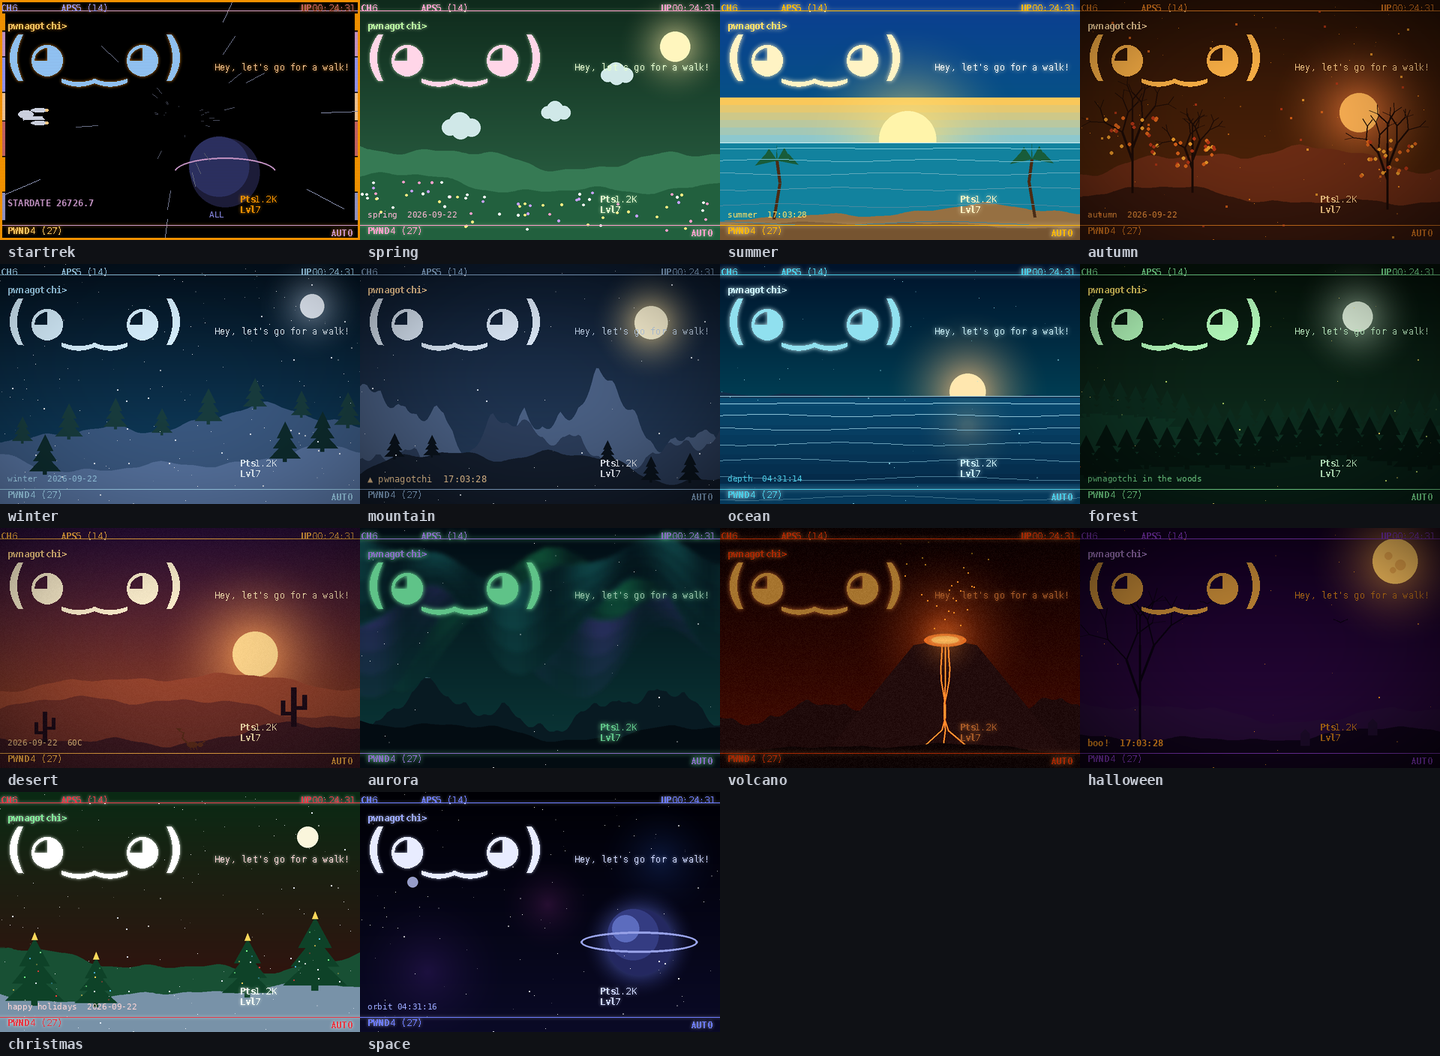
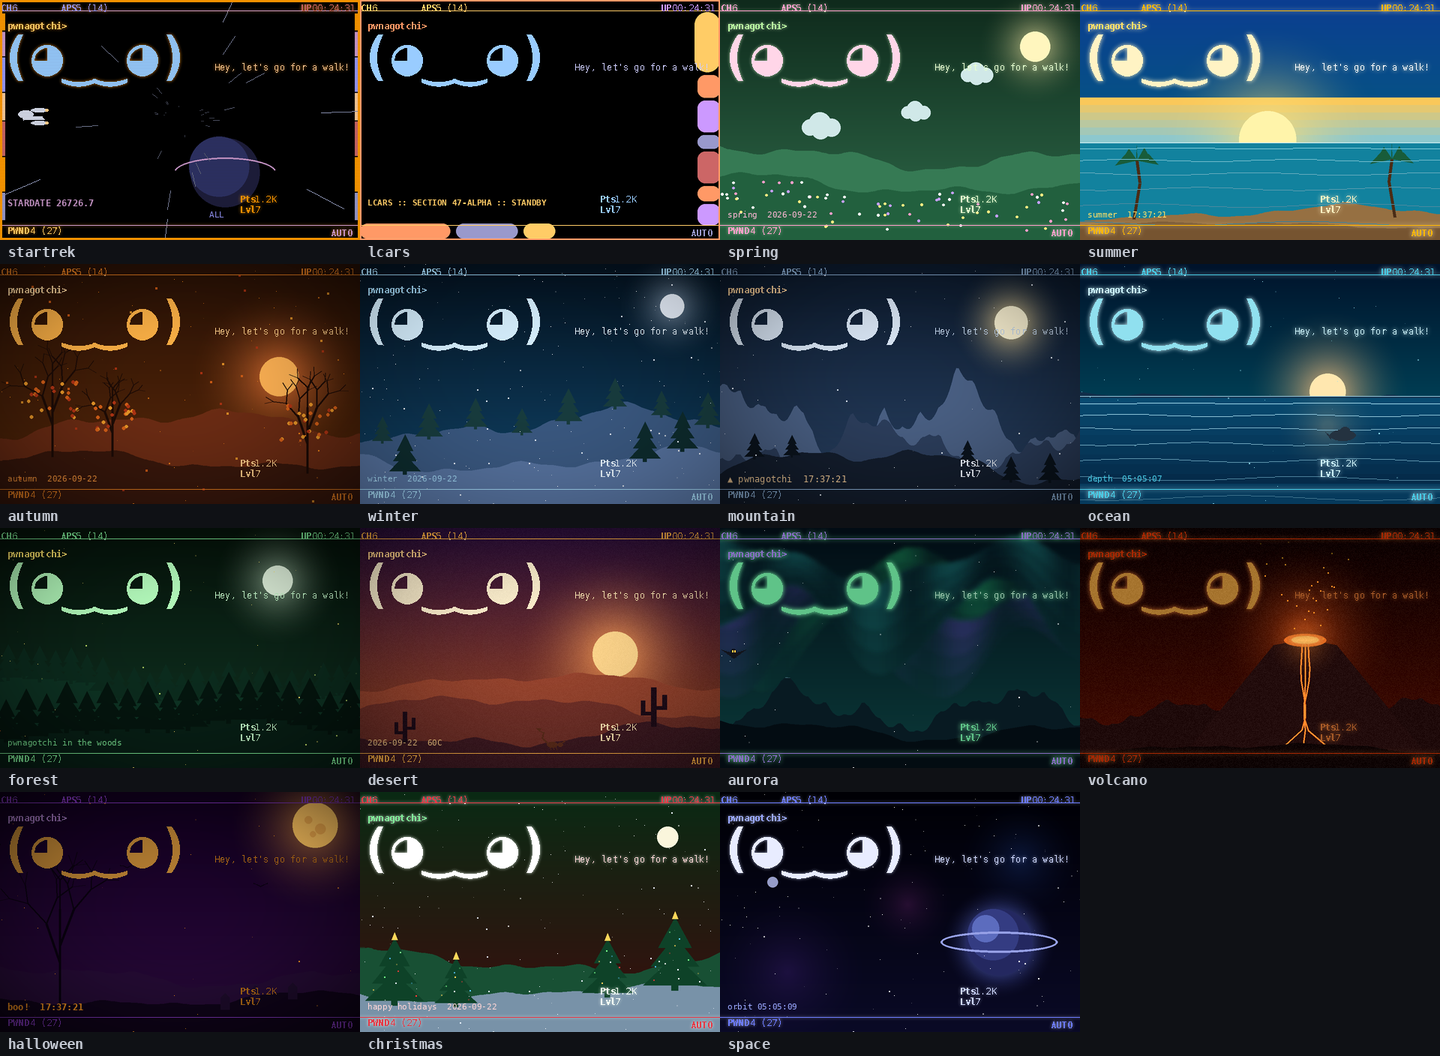
Two more sprites, and a new LCARS theme (2.13.0)
Sprites: a whale surfaces to blow a spout in ocean, off to one side
and much rarer than the dolphin -- a rare surprise, not a second
fixture. An owl glides across aurora's night sky every so often, the
same occasional-flyby idea already used for the startrek ship (and
routed through the same clear band of sky, learned from that earlier
bug).

New theme: lcars, a ship's-computer instrument panel built from
stacked rounded LCARS blocks (orange, gold, violet on black). A
genuinely different companion to startrek's viewscreen-and-console
look rather than a reskin of it -- no stars, no planet, this is the
inside of the ship. Verified against a real framebuffer capture that
foreground text stays fully legible over the panel (this plugin
composites scene art only into the non-ink background, so it can
never cover real UI text).

tests/test_sprites.py: coverage for both new sprites (visibility
frequency, clearing the face/text band). test_scenes.py and
test_repo.py pick up the new theme/scene automatically.

diff --git a/theme_manager.py b/theme_manager.py
@@ -82,7 +82,7 @@ KEY_RE = re.compile(r"^[A-Za-z0-9_.\-]{1,40}$")
 EFFECTS = {"scanlines", "vignette", "glow", "noise", "pulse", "rainbow",
            "glitch", "rain", "stars", "border", "scene"}
 SCENE_KINDS = ("mountains", "glacier", "ocean", "forest", "desert", "aurora", "volcano", "winter", "spring", "summer", "autumn",
-               "halloween", "christmas", "space", "startrek", "city", "vaporwave", "bloodmoon", "pixel")
+               "halloween", "christmas", "space", "startrek", "city", "vaporwave", "bloodmoon", "pixel", "lcars")
 ANIMATED = {"pulse", "rainbow", "glitch", "rain", "stars", "noise"}
 LIVE_TOKENS = ("{time}", "{cpu}", "{temp}", "{mem}", "{uptime}", "{ip}", "{gps}", "{lat}", "{lon}", "{sats}",
                "{handshakes}", "{cracked}", "{session}", "{battery}", "{power}", "{mode}", "{queued}", "{uploaded}", "{invalid}")
@@ -192,6 +192,17 @@ BUILTIN = {
                                      "effects": [{"type": "glitch", "interval": 1.5}]},
                           "sad": {"fg": "#ffcc00", "accent": "#ffcc00", "elements": {"face": "#ffcc00"}},
                           "handshake": {"elements": {"face": "#66ff99", "name": "#66ff99"}, "effects": [{"type": "glow", "radius": 5, "strength": 1}]}}},
+    "lcars": {"bg": "#000000", "fg": "#99ccff", "accent": "#ffcc66", "web": "#ff9966", "fps": 3,
+              "description": "a ship's-computer instrument panel: stacked rounded LCARS blocks in orange, gold and violet, no viewscreen",
+              "elements": {"face": "#99ccff", "name": "#ff9966", "status": "#ccccff", "channel": "#ffcc66", "aps": "#ffcc66",
+                           "uptime": "#cc99ff", "shakes": "#ff9966", "mode": "#9999cc"},
+              "effects": [{"type": "scene", "kind": "lcars"}, {"type": "border", "size": 2, "color": "#ff9966"}],
+              "text": [{"text": "LCARS :: SECTION 47-ALPHA :: STANDBY", "x": 10, "y": 262, "size": 11, "bold": True, "color": "#ffcc66"}],
+              "mood": {"angry": {"fg": "#ff6666", "accent": "#ff6666", "elements": {"face": "#ff6666"},
+                                 "effects": [{"type": "pulse", "speed": 6, "strength": 0.4}]},
+                       "broken": {"fg": "#ff6666", "elements": {"face": "#ff6666"}, "effects": [{"type": "glitch", "interval": 1.8}]},
+                       "sad": {"fg": "#9999cc", "elements": {"face": "#9999cc"}},
+                       "handshake": {"elements": {"face": "#99ffcc", "name": "#99ffcc"}, "effects": [{"type": "glow", "radius": 4, "strength": 0.8}]}}},
     "spring": {"bg": "#0f2a1c", "fg": "#e6ffd0", "accent": "#ff9ecb", "web": "#ff9ecb", "fps": 4,
                "description": "fresh green with drifting blossoms",
                "gradient": {"from": "#0f2a1c", "to": "#2f6b4a", "direction": "vertical"},
@@ -1282,6 +1293,24 @@ def _scene_startrek(c):
     c.d.arc((232 * SS, 210 * SS, 368 * SS, 250 * SS), 190, 350, fill=(204, 153, 204), width=2 * SS)
 
 
+def _scene_lcars(c):
+    """A ship's-computer instrument panel: stacked rounded LCARS blocks, no stars or planet -- this is the inside
+    of the ship, not the view out of it (that's what the `startrek` theme already does)."""
+    w, h = c.w, c.h
+    orange, gold, violet, blue, rust = (255, 153, 102), (255, 204, 102), (204, 153, 255), (153, 153, 204), (204, 102, 102)
+
+    def pill(x0, y0, x1, y1, r, color):
+        c.d.rounded_rectangle((x0 * SS, y0 * SS, x1 * SS, y1 * SS), radius=r * SS, fill=color)
+
+    pill(w - 34, 16, w, 96, 17, gold)                 # elbow cap, top right
+    for i, (y0, y1, col) in enumerate(((100, 130, orange), (134, 176, violet), (180, 198, blue),
+                                        (202, 244, rust), (248, 268, orange), (272, 300, violet))):
+        pill(w - 30, y0, w, y1, 10, col)
+    pill(0, h - 22, 120, h - 2, 10, orange)
+    pill(128, h - 22, 210, h - 2, 10, blue)
+    pill(218, h - 22, 260, h - 2, 10, gold)
+
+
 def _scene_city(c):
     w, h = c.w, c.h
     rng = random.Random(9)
@@ -1347,7 +1376,7 @@ SCENES = {"mountains": _scene_mountains, "glacier": _scene_glacier, "ocean": _sc
           "desert": _scene_desert, "aurora": _scene_aurora, "volcano": _scene_volcano, "winter": _scene_winter,
           "spring": _scene_spring, "summer": _scene_summer, "autumn": _scene_autumn, "halloween": _scene_halloween,
           "christmas": _scene_christmas, "space": _scene_space, "startrek": _scene_startrek, "city": _scene_city,
-          "vaporwave": _scene_vaporwave, "bloodmoon": _scene_bloodmoon, "pixel": _scene_pixel}
+          "vaporwave": _scene_vaporwave, "bloodmoon": _scene_bloodmoon, "pixel": _scene_pixel, "lcars": _scene_lcars}
 
 
 # ---- the moving layers (drawn at normal size onto the cached scene, every animation frame)
@@ -1478,6 +1507,25 @@ def _dyn_bats(img, d, w, h, t, sp):
         d.line([(x - 9, y - flap), (x - 4, y - 2), (x, y), (x + 4, y - 2), (x + 9, y - flap)], fill=(12, 2, 20), width=2)
 
 
+def _dyn_owl(img, d, w, h, t, sp):
+    """An owl glides across the night sky, every so often -- not a constant fixture."""
+    period = max(1.0, 26.0 / sp)
+    phase = (t % period) / period
+    if phase > 0.3:
+        return
+    travel = phase / 0.3
+    x = -30 + travel * (w + 60)
+    y = 165 + 14 * math.sin(travel * math.pi)
+    flap = math.sin(t * 10 * sp) * 6
+    col = (18, 20, 27)
+    d.polygon([(x, y - 1), (x - 16, y - 2 - flap), (x - 5, y + 2)], fill=col)   # left wing
+    d.polygon([(x, y - 1), (x + 16, y - 2 - flap), (x + 5, y + 2)], fill=col)   # right wing
+    d.ellipse((x - 4, y - 3, x + 4, y + 5), fill=col)                          # body
+    d.ellipse((x - 3.5, y - 7, x + 3.5, y - 1), fill=col)                      # head
+    d.ellipse((x - 2.3, y - 5.5, x - 0.6, y - 3.8), fill=(255, 205, 70))       # eyes
+    d.ellipse((x + 0.6, y - 5.5, x + 2.3, y - 3.8), fill=(255, 205, 70))
+
+
 def _dyn_grid(img, d, w, h, t, sp):
     hor = 206
     for i in range(8):     # the floor lines glide toward you
@@ -1503,6 +1551,26 @@ def _dyn_dolphin(img, d, w, h, t, sp, surface=228, hop=150):
     y, s = surface - arc * 40, 15
     d.polygon(_dolphin_pts(x, y, s, 1), fill=(48, 70, 90))
     d.ellipse((x + 0.78 * s - 1.5, y - 0.08 * s - 1.5, x + 0.78 * s + 1.5, y - 0.08 * s + 1.5), fill=(15, 15, 20))
+
+
+def _dyn_whale(img, d, w, h, t, sp, surface=230):
+    """Surfaces to blow a spout, much more rarely than the dolphin leaps, and well off to one side so they never collide."""
+    period = max(1.0, 50.0 / sp)
+    phase = (t % period) / period
+    if phase > 0.16:
+        return
+    rise = math.sin((phase / 0.16) * math.pi)
+    if rise <= 0.03:
+        return
+    x, s, y = w * 0.74, 22, surface - rise * 6
+    col = (36, 50, 64)
+    d.ellipse((x - s, y - s * 0.32, x + s * 0.55, y + s * 0.32), fill=col)          # long dark back
+    d.ellipse((x - s * 0.35, y - s * 0.5, x + s * 0.2, y - s * 0.08), fill=col)     # head bump
+    d.polygon([(x - s, y), (x - s * 1.25, y - 4), (x - s * 0.95, y + 5)], fill=col)  # tail hint
+    if rise > 0.55:                                                                 # a spout near the peak
+        k = (rise - 0.55) / 0.45
+        for i in range(3):
+            _blend_px(img, d, x - s * 0.15 + i * 2 - 2, y - s * 0.5 - k * (10 + i * 6), (220, 230, 240), (1 - k) * 0.8, 2 + i)
 
 
 def _dyn_fox(img, d, w, h, t, sp):
@@ -1564,9 +1632,9 @@ def _dyn_penguin(img, d, w, h, t, sp):
 
 DYNAMIC = {"winter": lambda *a: (_dyn_snow(*a), _dyn_penguin(*a)),
            "glacier": lambda *a: _dyn_snow(*a, count=40), "christmas": lambda *a: (_dyn_snow(*a, count=60), _dyn_lights(*a)),
-           "mountains": lambda *a: _dyn_snow(*a, count=30), "ocean": lambda *a: (_dyn_waves(*a), _dyn_dolphin(*a)),
+           "mountains": lambda *a: _dyn_snow(*a, count=30), "ocean": lambda *a: (_dyn_waves(*a), _dyn_dolphin(*a), _dyn_whale(*a)),
            "summer": lambda *a: _dyn_waves(*a, top=190, color=(120, 200, 215)), "volcano": _dyn_embers, "autumn": _dyn_leaves,
-           "forest": lambda *a: (_dyn_fireflies(*a), _dyn_fox(*a)), "aurora": _dyn_aurora,
+           "forest": lambda *a: (_dyn_fireflies(*a), _dyn_fox(*a)), "aurora": lambda *a: (_dyn_aurora(*a), _dyn_owl(*a)),
            "startrek": lambda *a: (_dyn_warp(*a), _dyn_ship(*a)),
            "halloween": _dyn_bats, "vaporwave": _dyn_grid, "desert": _dyn_scorpion}
 ANIM_SCENES = set(DYNAMIC)
@@ -2623,7 +2691,7 @@ def _pwa_icon(size, theme):
 
 class ThemeManager(plugins.Plugin):
     __author__ = "theme_manager contributors"
-    __version__ = "2.12.0"
+    __version__ = "2.13.0"
     __license__ = "GPL3"
     __description__ = "Theme engine for the 3.5 inch display: colors, effects, animations, custom text, web GUI."
 

diff --git a/tests/test_sprites.py b/tests/test_sprites.py
@@ -1,4 +1,4 @@
-"""A small animal (or a ship) in a few themes (not all of them): dolphin, fox, scorpion, penguin, starship."""
+"""A small animal (or a ship) in a few themes (not all of them): dolphin, whale, fox, scorpion, penguin, owl, starship."""
 import math
 import time
 
@@ -23,7 +23,7 @@ def changed(img):
 
 
 # ---------------------------------------------------------------- which themes got one, and which didn't
-sprited = {"ocean", "forest", "desert", "winter", "startrek"}
+sprited = {"ocean", "forest", "desert", "winter", "startrek", "aurora"}
 ok("a few scenes got an animal or a ship, most did not", sprited < set(T.SCENE_KINDS))
 ok("desert is newly animated because of it (it had no motion before)", "desert" in T.ANIM_SCENES)
 th = T._clean(dict(T.BUILTIN["default"], effects=[{"type": "scene", "kind": "desert"}]))
@@ -36,6 +36,16 @@ seen_under = any(not changed(draw(T._dyn_dolphin, i * 0.1)) for i in range(60))
 ok("the dolphin is drawn part of the time (mid-leap)...", seen_air)
 ok("...and not drawn the rest (it's underwater, not just invisible)", seen_under)
 
+# ---------------------------------------------------------------- the whale: rarer than the dolphin, off to one side
+whale_frames = [draw(T._dyn_whale, i * 0.5) for i in range(120)]
+whale_seen = [changed(f) for f in whale_frames]
+dolphin_frac = sum(changed(draw(T._dyn_dolphin, i * 0.5)) for i in range(120)) / 120
+whale_frac = whale_seen.count(True) / len(whale_seen)
+ok("the whale surfaces sometimes...", any(whale_seen))
+ok("...much less often than the dolphin (a rare surprise, not a fixture)", whale_frac < dolphin_frac, (whale_frac, dolphin_frac))
+whale_boxes = [ImageChops.difference(f, frame()).getbbox() for f, seen in zip(whale_frames, whale_seen) if seen]
+ok("it stays off to one side, clear of where the dolphin leaps", all(box[0] > 480 * 0.55 for box in whale_boxes), whale_boxes[:3])
+
 # ---------------------------------------------------------------- the animals draw, and patrol within a bounded range
 for name, fn in (("fox", T._dyn_fox), ("scorpion", T._dyn_scorpion), ("penguin", T._dyn_penguin)):
     ok("%s: draws something across a range of times" % name, any(changed(draw(fn, i * 0.3)) for i in range(20)))
@@ -47,6 +57,14 @@ ok("...and hidden most of the time (a flyby, not a constant fixture)", ship_seen
 ok("it clears the face and the planet (stays out of the busy middle of the screen)",
    all(ImageChops.difference(draw(T._dyn_ship, i * 0.3), frame()).getbbox() is None or
        ImageChops.difference(draw(T._dyn_ship, i * 0.3), frame()).getbbox()[1] > 130 for i in range(40)))
+
+# ---------------------------------------------------------------- the owl: an occasional glide, clear of the face
+owl_seen = [changed(draw(T._dyn_owl, i * 0.5)) for i in range(60)]
+ok("the owl is drawn part of the time...", any(owl_seen))
+ok("...and hidden most of the time (a glide, not a constant fixture)", owl_seen.count(True) < len(owl_seen) * 0.4, owl_seen.count(True))
+ok("it clears the face and status text (stays in a clear band of sky)",
+   all(ImageChops.difference(draw(T._dyn_owl, i * 0.3), frame()).getbbox() is None or
+       130 < ImageChops.difference(draw(T._dyn_owl, i * 0.3), frame()).getbbox()[1] < 210 for i in range(40)))
 
 fox_xs = []
 for i in range(80):

diff --git a/tools/make_screenshots.py b/tools/make_screenshots.py
@@ -42,8 +42,8 @@ moods = [("happy", faces.HAPPY), ("excited", faces.EXCITED), ("sad", faces.SAD),
 grid([(render("moody", face, mood=m), "mood: " + m) for m, face in moods], 3, (360, 240)).save(os.path.join(OUT, "moods.png"), optimize=True)
 
 # ---- more themes
-more = ["startrek", "spring", "summer", "autumn", "winter", "mountain", "ocean", "forest", "desert", "aurora", "volcano", "halloween",
-        "christmas", "space"]
+more = ["startrek", "lcars", "spring", "summer", "autumn", "winter", "mountain", "ocean", "forest", "desert", "aurora", "volcano",
+        "halloween", "christmas", "space"]
 grid([(render(n), n) for n in more], 4, (360, 240)).save(os.path.join(OUT, "themes-more.png"), optimize=True)
 
 # ---- face packs

diff --git a/docs/THEMES.md b/docs/THEMES.md
@@ -20,8 +20,9 @@ The file name (without `.json`) is the theme name: letters, digits, `_`, `-` and
 Saved files are picked up live. If you edit the active theme's file, re-apply it (or save it from the web page).
 Built-in theme names can't be saved over or deleted, but you can copy them under a new name. They are `default`, `paper`,
 `matrix`, `amber`, `cyberpunk`, `vaporwave`, `blood`, `ice`, `gameboy`, `rainbow`, and the newer ones: `startrek`
-(a bridge console with a stardate), the seasons `spring`, `summer`, `autumn` and `winter`, the landscapes `mountain`,
-`ocean`, `forest`, `desert`, `aurora` and `volcano`, and `halloween`, `christmas` and `space`.
+(a bridge console with a stardate), `lcars` (a ship's-computer instrument panel, no viewscreen), the seasons `spring`,
+`summer`, `autumn` and `winter`, the landscapes `mountain`, `ocean`, `forest`, `desert`, `aurora` and `volcano`, and
+`halloween`, `christmas` and `space`.
 
 ## How it works (read this once)
 
@@ -115,14 +116,15 @@ moving layer. `strength` fades the scenery toward the plain background, `speed` 
 | `christmas` | pines with stars and snow | blinking lights, snow |
 | `space` | nebulae and a ringed planet | |
 | `startrek` | console bars along the edges and a planet | warp streaks, an occasional ship flying past |
+| `lcars` | a ship's-computer instrument panel: stacked rounded blocks, no viewscreen | |
 | `city` | a neon skyline | |
 | `vaporwave` | striped sun over a grid | the grid glides |
 | `bloodmoon` | a red moon and a dead tree | |
 | `pixel` | blocky hills and clouds in handheld greens | |
 
-A few scenes (`ocean`, `forest`, `desert`, `winter`, `startrek`) also have a small animal or ship passing through, the way a
-Flipper Zero's dolphin turns up in its own UI — not every scene, just a handful, so it stays a nice surprise rather
-than clutter.
+A few scenes (`ocean`, `forest`, `desert`, `winter`, `startrek`, `aurora`) also have a small animal or ship passing
+through, the way a Flipper Zero's dolphin turns up in its own UI — not every scene, just a handful, so it stays a
+nice surprise rather than clutter. `ocean` also gets an occasional whale, much rarer than its dolphin.
 
 Combine it with the other effects: stars over a night scene, `vignette` to darken the edges. The web editor has a
 "scene" checkbox with a kind dropdown under Effects.

diff --git a/README.md b/README.md
@@ -26,7 +26,7 @@ with pwnagotchi's mood. Themes are small JSON files you can edit in a web editor
 
 ## Features
 
-- **27 built-in themes, 19 with scenery** painted behind the text (the `scene` effect): mountains, ocean, forest, desert, volcano, aurora, the four seasons, a Star Trek console, a neon city and more; a few even have a small animal wandering through (a dolphin, a fox, a scorpion, a penguin)
+- **28 built-in themes, 20 with scenery** painted behind the text (the `scene` effect): mountains, ocean, forest, desert, volcano, aurora, the four seasons, a Star Trek console, an LCARS instrument panel, a neon city and more; a few even have a small animal wandering through (a dolphin, a whale, a fox, a scorpion, a penguin, an owl)
 - **Colors and gradients** for ink, background and the top/bottom bars
 - **Effects:** glow, scanlines, vignette, film grain, pulse, rainbow, glitch, matrix rain, twinkling stars, border
 - **Per-element colors:** face, name, status, stats and any plugin's on-screen items each get their own color

diff --git a/CHANGELOG.md b/CHANGELOG.md
@@ -1,5 +1,15 @@
 # Changelog
 
+## 2.13.0
+
+**Two more sprites.** A whale surfaces to blow a spout in `ocean`, off to one side and much more rarely than the
+dolphin — a rare surprise, not a second fixture. An owl glides across `aurora`'s night sky every so often, the same
+"occasional flyby" idea as the startrek ship.
+
+**A new theme: `lcars`.** A ship's-computer instrument panel — stacked rounded LCARS blocks in orange, gold and
+violet on black — as a genuinely different companion to `startrek`'s viewscreen-and-console look rather than a
+reskin of it. No stars, no planet: this is the inside of the ship.
+
 ## 2.12.0
 
 **Radar is back, redesigned.** Instead of the old ranked list, it is now a sonar-style sweep: a rotating line with a
